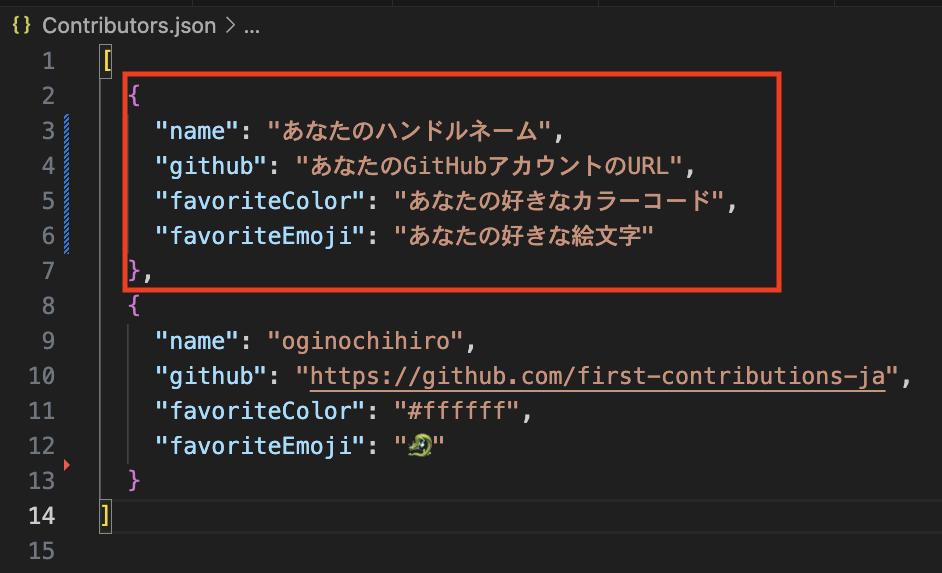
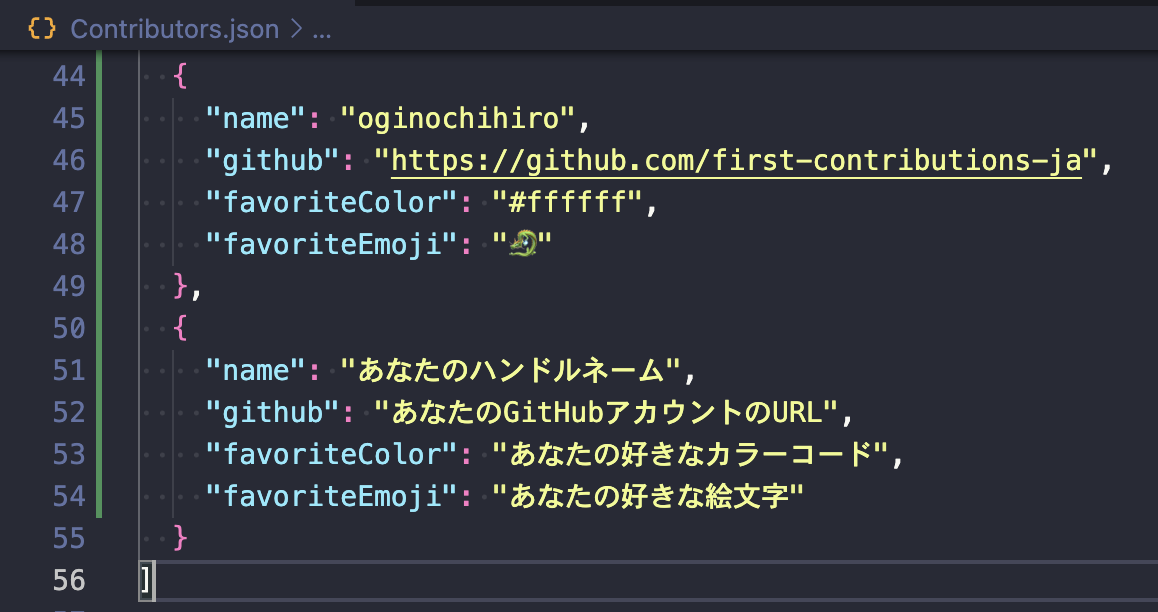
📚 docs: 絵文字の表示順序変更に伴いREADME.md更新 #221

Changed region(s): [[0.0, 0.0, 1.0, 1.0]]

diff --git a/README.md b/README.md
@@ -201,14 +201,15 @@ GitHub 上でファイルを編集することも可能ですが、<br>
   git status
   ```
 - それでは Contributors.json ファイルに変更を加えます。
-  - **Contributors.json ファイルの「リストの先頭」に、以下のコードをコピーして貼り付けます。**
+  - **Contributors.json ファイルの「リストの末尾」に、以下のコードをコピーして貼り付けます。**
   ```
+  ,
   {
     "name": "あなたのハンドルネーム",
     "github": "あなたのGitHubアカウントのURL",
     "favoriteColor": "あなたの好きなカラーコード",
     "favoriteEmoji": "あなたの好きな絵文字"
-  },
+  }
   ```
 
 <p align="center">
@@ -220,15 +221,15 @@ GitHub 上でファイルを編集することも可能ですが、<br>
   - 例えば、全て置き換えたら以下のようになります：
   ```
   <!-- 変更後 -->
-  [
+    ~~
+    },
     {
       "name": "oginochihiro",
       "github": "https://github.com/first-contributions-ja",
       "favoriteColor": "#ffffff",
       "favoriteEmoji": "🐉"
-    },
-    {
-     〜〜
+    }
+  ]
   ```
 
 ---
